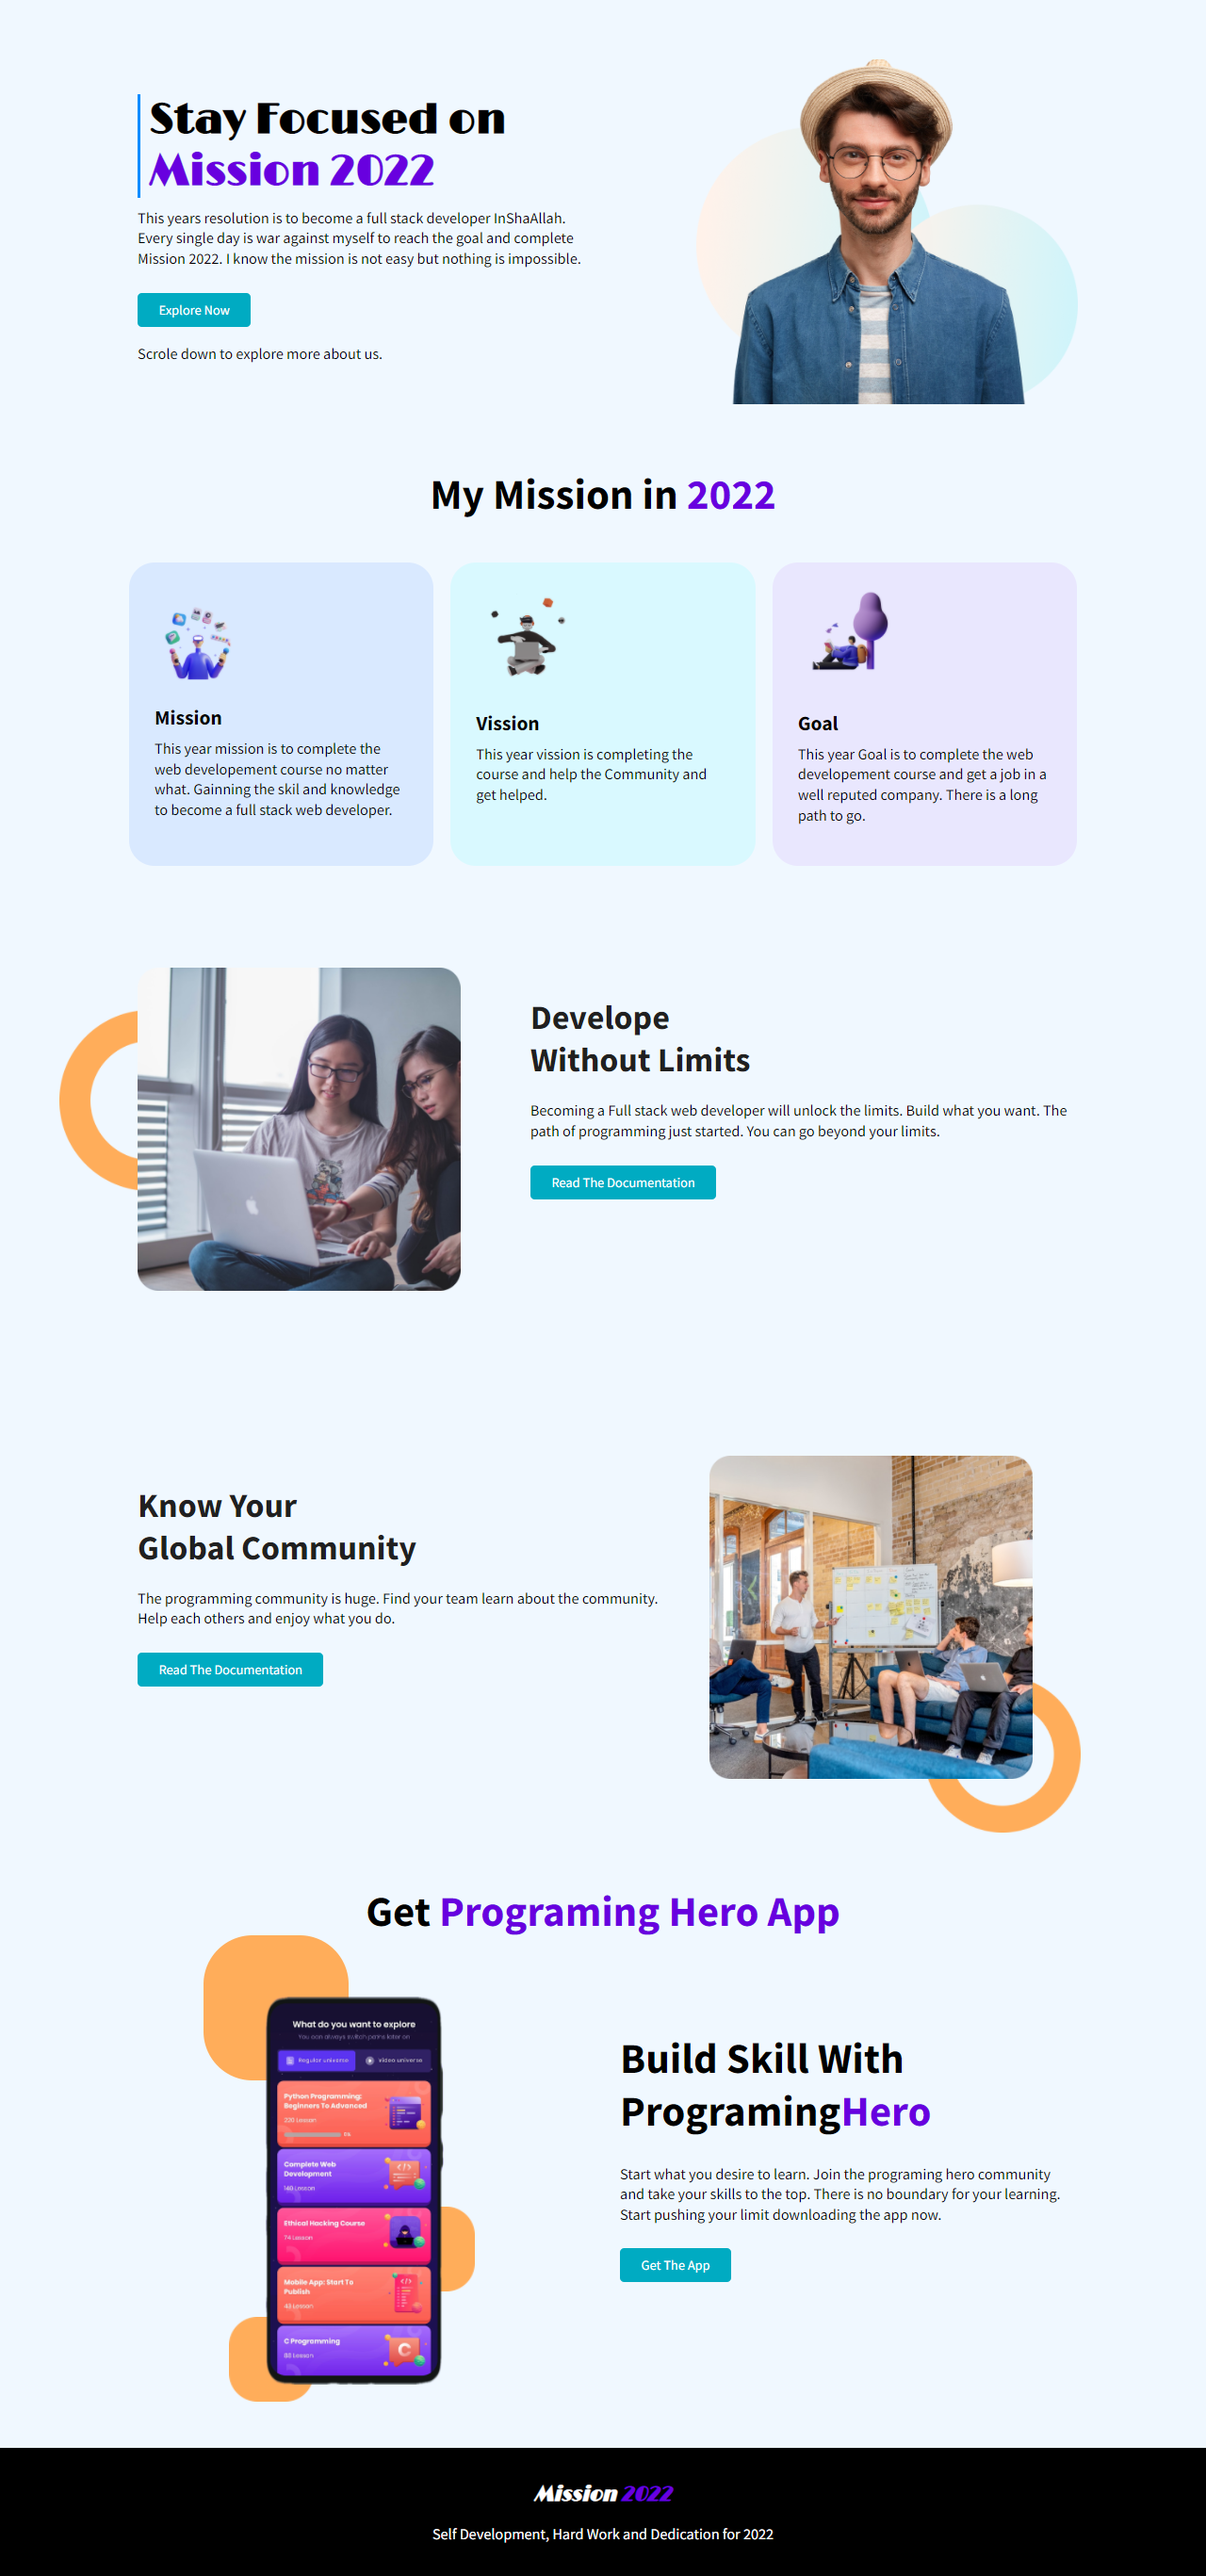
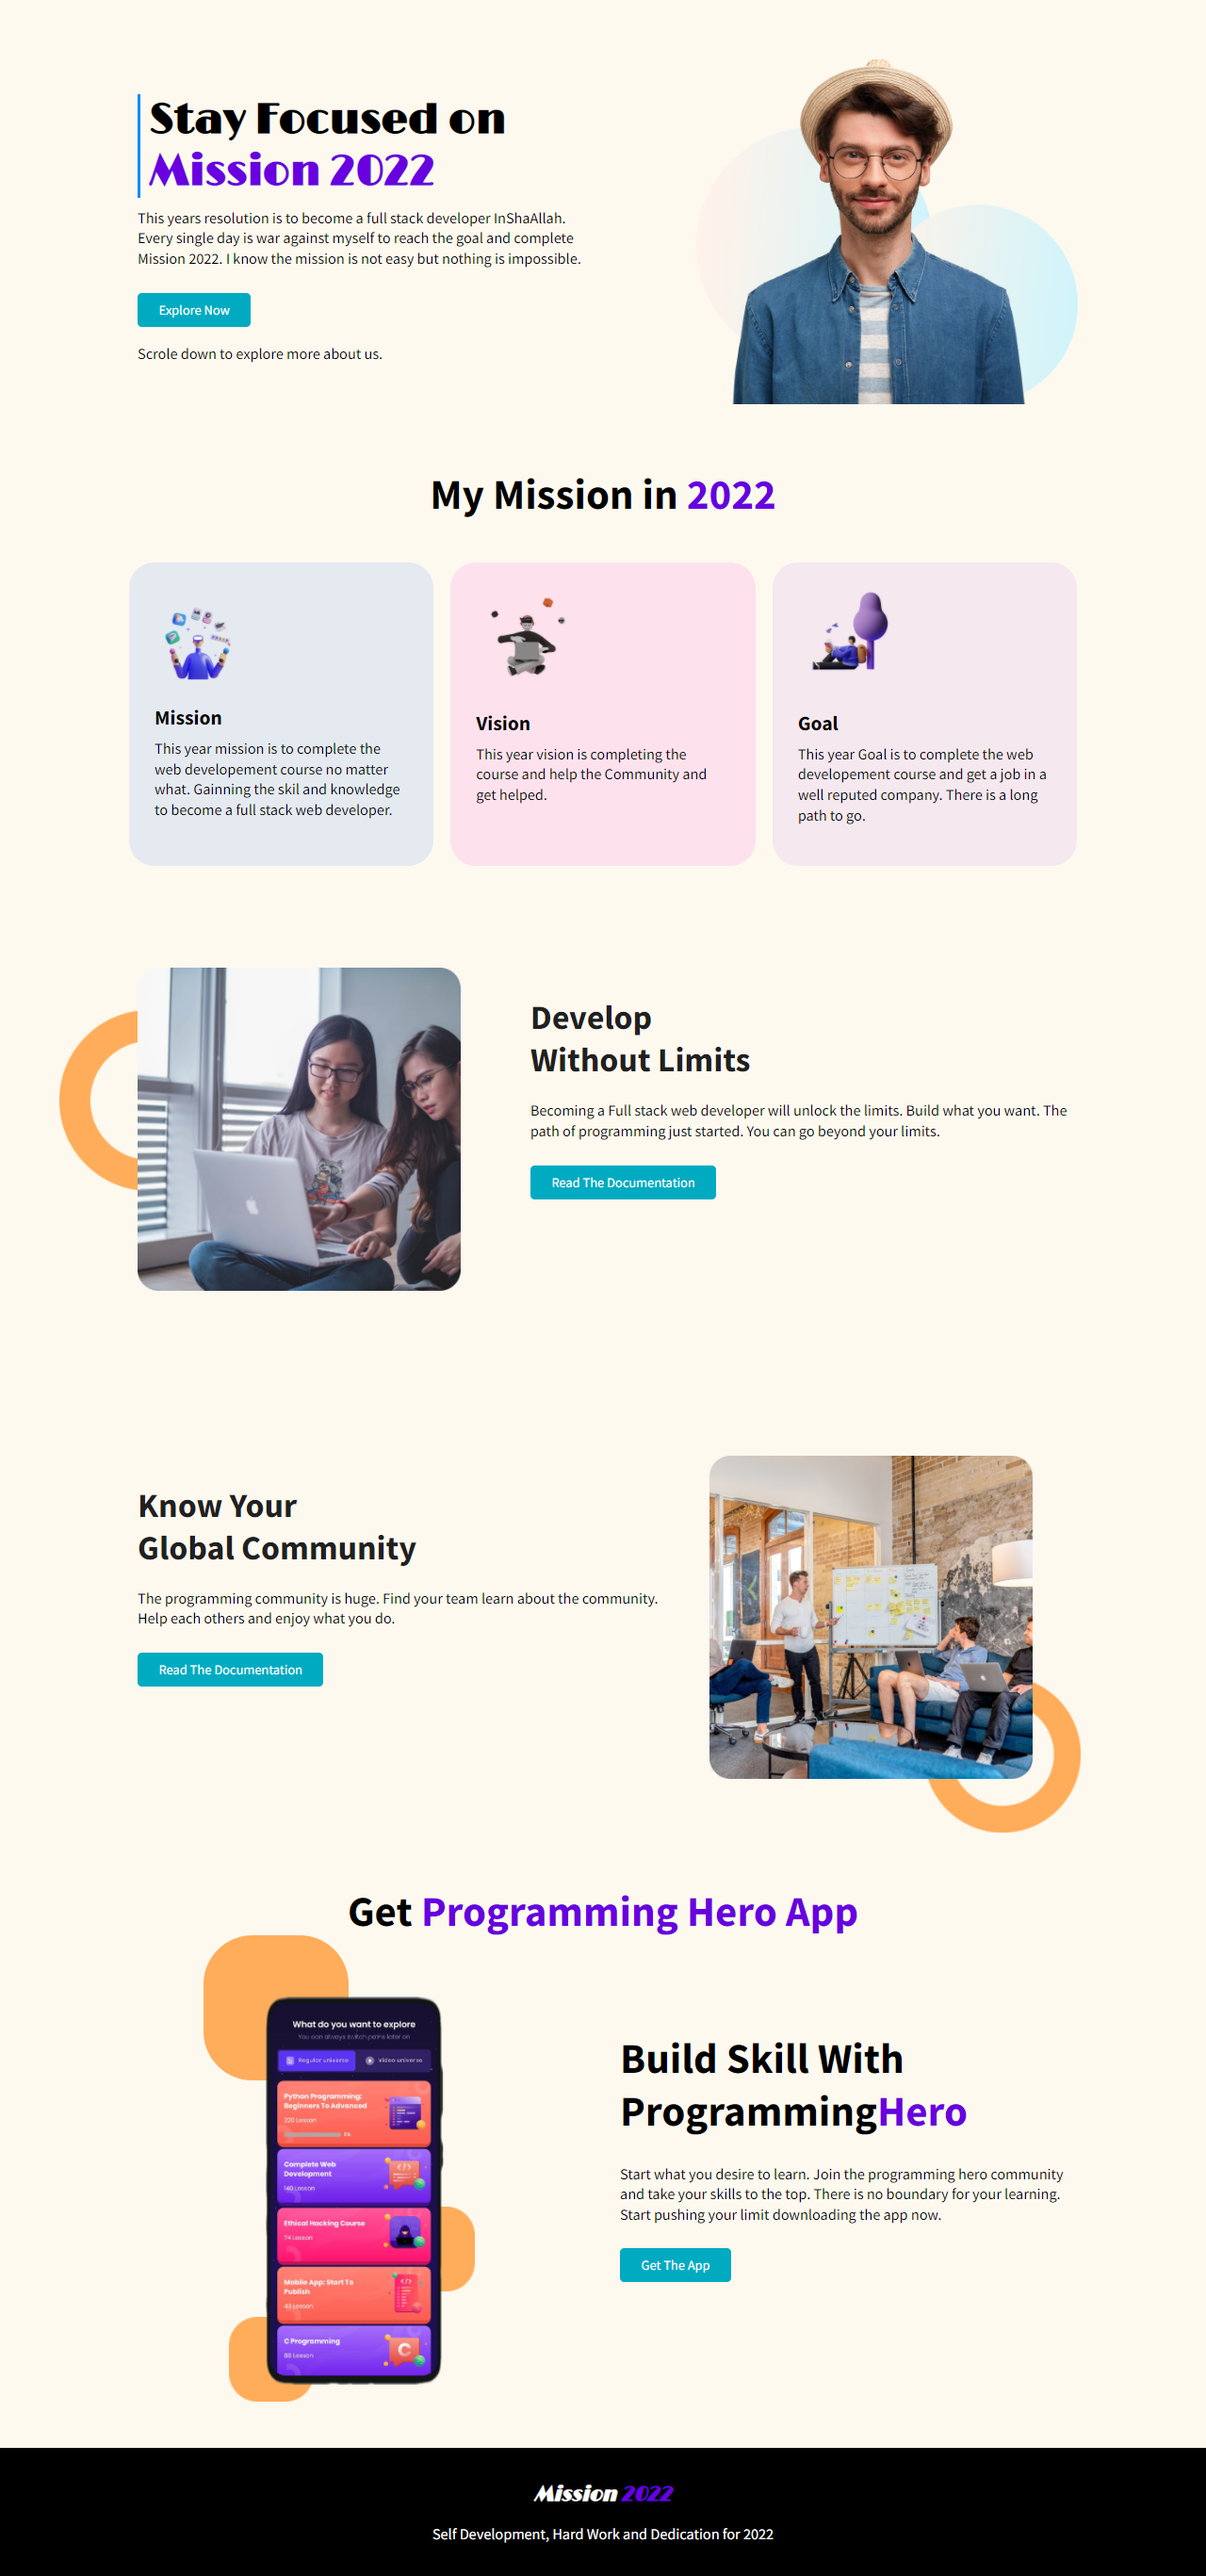
beta 5 update(spelling mistakes, background color, full website image)

Changed region(s): [[0.375, 0.2176, 0.625, 0.342], [0.2812, 0.7151, 0.7188, 0.7772], [0.6562, 0.8083, 0.8125, 0.8394]]

diff --git a/index.html b/index.html
@@ -65,7 +65,7 @@
         My Mission in <span class="purple-color">2022</span>
       </h1>
       <div class="flexiable-container">
-        <div class="mission-cards mission">
+        <div class="sec2-cards mission">
           <img
             class="illustration-img"
             class="illustration-img"
@@ -80,21 +80,21 @@
             web developer.
           </p>
         </div>
-        <div class="mission-cards vission">
+        <div class="sec2-cards vision">
           <img
             class="illustration-img"
             class="illustration-img"
             src="./illustrators/illustrator-2.png"
             alt=""
           />
-          <h2>Vission</h2>
+          <h2>Vision</h2>
           <br />
           <p>
-            This year vission is completing the course and help the Community
-            and get helped.
+            This year vision is completing the course and help the Community and
+            get helped.
           </p>
         </div>
-        <div class="mission-cards goal">
+        <div class="sec2-cards goal">
           <img
             class="illustration-img"
             class="illustration-img"
@@ -120,7 +120,7 @@
         </div>
         <div class="section-3-4-text">
           <h2>
-            Develope <br />
+            Develop <br />
             Without Limits
           </h2>
           <br />

diff --git a/style.css b/style.css
@@ -1,7 +1,7 @@
 body {
   font-family: "Source Sans Pro", sans-serif;
   margin: 0;
-  background-color: aliceblue;
+  background-color: rgba(252, 238, 209, 0.342);
 }
 
 .top-heading {
@@ -50,7 +50,7 @@ p {
   padding: 20px;
 }
 
-.mission-cards {
+.sec2-cards {
   width: 33%;
   padding: 30px;
   margin-left: 10px;
@@ -62,8 +62,8 @@ p {
   background-color: rgba(0, 89, 255, 0.096);
 }
 
-.vission {
-  background-color: rgba(0, 255, 255, 0.096);
+.vision {
+  background-color: rgba(255, 0, 212, 0.096);
 }
 
 .goal {
